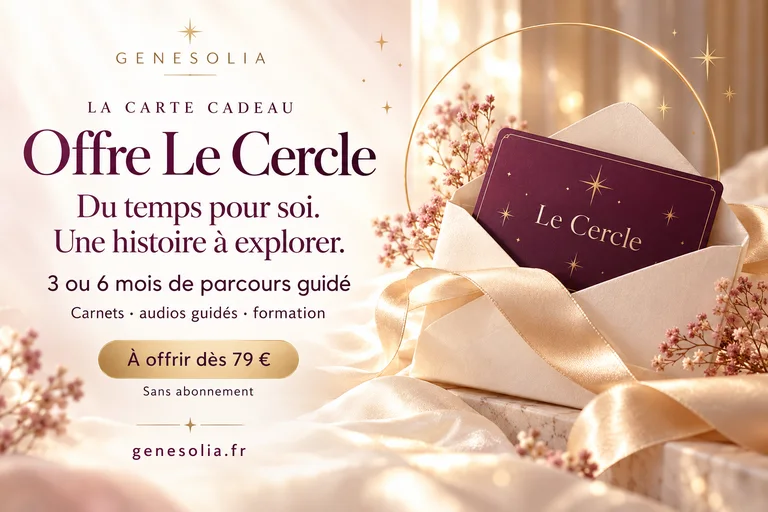
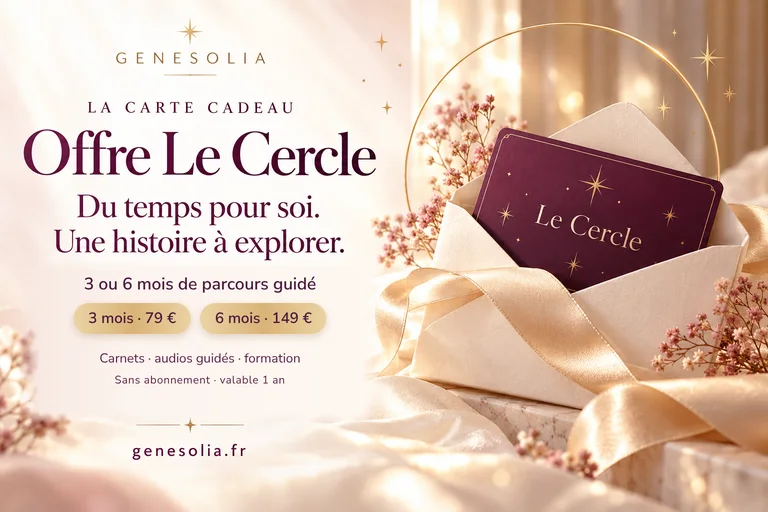
Carte cadeau : le visuel de Laura avec les deux prix, aussi en affiche de Noël (#438)
Claude-Session: https://claude.ai/code/session_01Jp8dGRbiouwYvgxCdYEgCU

Changed region(s): [[0.0312, 0.5312, 0.5, 0.8438], [0.4688, 0.7812, 0.5, 0.8125]]

diff --git a/offrir.html b/offrir.html
@@ -88,14 +88,14 @@
       <div class="noel-grille">
         <a href="https://www.amazon.fr/dp/B0HP7WPZQD" target="_blank" rel="noopener"><img src="assets/noel/noel-racines-540.webp" srcset="assets/noel/noel-racines-540.webp 540w, assets/noel/noel-racines-1080.webp 1080w" sizes="(max-width:900px) 50vw, 25vw" width="540" height="675" loading="lazy" alt="Noël : le livre Racines, à offrir, sur Amazon"></a>
         <a href="enquete-de-ma-lignee.html"><img src="assets/noel/noel-enquete-540.webp" srcset="assets/noel/noel-enquete-540.webp 540w, assets/noel/noel-enquete-1080.webp 1080w" sizes="(max-width:900px) 50vw, 25vw" width="540" height="675" loading="lazy" alt="Noël : le livre L’enquête de ma lignée, à remplir en famille"></a>
-        <a href="#carte-cadeau"><img src="assets/noel/noel-cercle-540.webp" srcset="assets/noel/noel-cercle-540.webp 540w, assets/noel/noel-cercle-1080.webp 1080w" sizes="(max-width:900px) 50vw, 25vw" width="540" height="675" loading="lazy" alt="Noël : offre Le Cercle, carte cadeau 3 ou 6 mois, dès 79 €"></a>
+        <a href="#carte-cadeau"><img src="assets/noel/noel-cercle-540.webp?v=2" srcset="assets/noel/noel-cercle-540.webp?v=2 540w, assets/noel/noel-cercle-1080.webp?v=2 1080w" sizes="(max-width:900px) 50vw, 25vw" width="540" height="675" loading="lazy" alt="Offre Le Cercle : carte cadeau 3 mois à 79 €, 6 mois à 149 €"></a>
         <a href="ma-spirale.html"><img src="assets/noel/noel-spirale-540.webp" srcset="assets/noel/noel-spirale-540.webp 540w, assets/noel/noel-spirale-1080.webp 1080w" sizes="(max-width:900px) 50vw, 25vw" width="540" height="675" loading="lazy" alt="Noël : Ma spirale, l’appli pour ton enquête de lignée"></a>
       </div>
     </div></section>
     <script>(function () { if (new Date() > new Date('2027-01-06T23:59:59')) { var n = document.getElementById('noel'); if (n) n.hidden = true; } })();</script>
     <section class="bloc" id="carte-cadeau"><div class="conteneur">
       <div class="of-sec">
-        <img class="cg-visuel" src="assets/noel/carte-cadeau-cercle-768.webp" srcset="assets/noel/carte-cadeau-cercle-768.webp 768w, assets/noel/carte-cadeau-cercle-1536.webp 1536w" sizes="(max-width:1200px) 100vw, 1150px" width="1536" height="1024" alt="Offre Le Cercle : la carte cadeau, 3 ou 6 mois de parcours guidé, à offrir dès 79 €, sans abonnement">
+        <img class="cg-visuel" src="assets/noel/carte-cadeau-cercle-768.webp?v=2" srcset="assets/noel/carte-cadeau-cercle-768.webp?v=2 768w, assets/noel/carte-cadeau-cercle-1536.webp?v=2 1536w" sizes="(max-width:1200px) 100vw, 1150px" width="1536" height="1024" alt="Offre Le Cercle : la carte cadeau, 3 mois à 79 €, 6 mois à 149 €, sans abonnement, valable 1 an">
         <h2>La carte cadeau du Cercle</h2>
         <p class="of-intro">Offre quelques mois du Cercle : un parcours guidé, mois par mois, pour comprendre ce qui se répète dans sa vie et dans sa lignée. Un carnet chaque mois, deux séances audio guidées, la formation « Sors de la boucle ». Pas d’abonnement : la personne active sa carte quand elle le souhaite dans l’année, Le Cercle s’ouvre une étape chaque mois, et rien n’est prélevé ensuite.</p>
         <div class="cg">

diff --git a/index.html b/index.html
@@ -274,7 +274,7 @@
       <div class="noel-grille">
         <a href="https://www.amazon.fr/dp/B0HP7WPZQD" target="_blank" rel="noopener"><img src="assets/noel/noel-racines-540.webp" srcset="assets/noel/noel-racines-540.webp 540w, assets/noel/noel-racines-1080.webp 1080w" sizes="(max-width:900px) 50vw, 25vw" width="540" height="675" loading="lazy" alt="Noël : le livre Racines, à offrir, sur Amazon"></a>
         <a href="enquete-de-ma-lignee.html"><img src="assets/noel/noel-enquete-540.webp" srcset="assets/noel/noel-enquete-540.webp 540w, assets/noel/noel-enquete-1080.webp 1080w" sizes="(max-width:900px) 50vw, 25vw" width="540" height="675" loading="lazy" alt="Noël : le livre L’enquête de ma lignée, à remplir en famille"></a>
-        <a href="offrir.html#carte-cadeau"><img src="assets/noel/noel-cercle-540.webp" srcset="assets/noel/noel-cercle-540.webp 540w, assets/noel/noel-cercle-1080.webp 1080w" sizes="(max-width:900px) 50vw, 25vw" width="540" height="675" loading="lazy" alt="Noël : offre Le Cercle, carte cadeau 3 ou 6 mois, dès 79 €"></a>
+        <a href="offrir.html#carte-cadeau"><img src="assets/noel/noel-cercle-540.webp?v=2" srcset="assets/noel/noel-cercle-540.webp?v=2 540w, assets/noel/noel-cercle-1080.webp?v=2 1080w" sizes="(max-width:900px) 50vw, 25vw" width="540" height="675" loading="lazy" alt="Offre Le Cercle : carte cadeau 3 mois à 79 €, 6 mois à 149 €"></a>
         <a href="ma-spirale.html"><img src="assets/noel/noel-spirale-540.webp" srcset="assets/noel/noel-spirale-540.webp 540w, assets/noel/noel-spirale-1080.webp 1080w" sizes="(max-width:900px) 50vw, 25vw" width="540" height="675" loading="lazy" alt="Noël : Ma spirale, l’appli pour ton enquête de lignée"></a>
       </div>
     </div></section>
